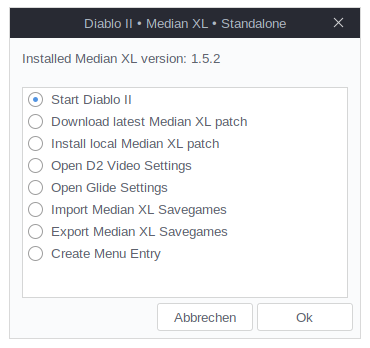
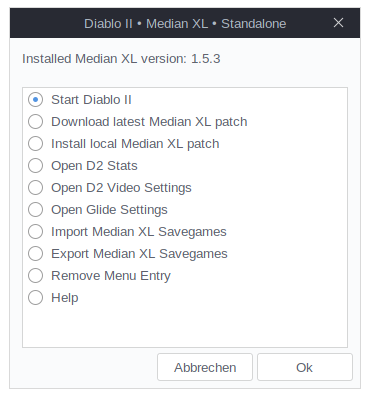
d2 stats support added, help page added

diff --git a/res/d2launcher-help.html b/res/d2launcher-help.html
@@ -1,0 +1,220 @@
+<!DOCTYPE html>
+<html>
+
+<head>
+    <meta charset="utf-8">
+    <title>d2launcher help</title>
+    <style>
+        html {
+            font-size: 12px;
+        }
+        
+        h1 {
+            font-size: 20px;
+        }
+        
+        h2 {
+            font-size: 16px;
+        }
+        
+        h3 {
+            font-size: 12px;
+        }
+        
+        p {
+            font-size: 12px;
+        }
+        
+        li {
+            font-size: 12px;
+        }
+        
+        table {
+            width: 100%;
+        }
+        
+        table,
+        th,
+        td {
+            border: 1px solid Gray;
+            border-collapse: collapse;
+        }
+        
+        th {
+            text-align: left;
+        }
+        
+        tr,
+        td {
+            padding: 5px;
+        }
+        
+        hr {
+            border: 1px dashed LightGray
+        }
+    </style>
+</head>
+
+<body>
+    <h1>d2launcher Help</h1>
+    <p><b>GitHub:</b> <a href="https://github.com/murkl/d2launcher">Link</a></p>
+    <br>
+    <h2>Diablo II Arguments</h2>
+    <hr>
+    <p>These are available arguments you can use in d2launcher.conf</p>
+    <table>
+        <tr>
+            <td>Enable Glide wrapper</td>
+            <td>-3dfx</td>
+        </tr>
+        <tr>
+            <td>Skip to Median XL login</td>
+            <td>-skiptobnet</td>
+        </tr>
+        <tr>
+            <td>No sound</td>
+            <td>-ns</td>
+        </tr>
+        <tr>
+            <td>No background sound</td>
+            <td>-sndbkg</td>
+        </tr>
+    </table>
+    <br>
+    <br>
+    <h2>Glide Wrapper</h2>
+    <hr>
+    <p>My recommended settings for glide wrapper. It depends on your own hardware.</p>
+    <h3>Settings</h3>
+    <table>
+        <tr>
+            <td>☐</td>
+            <td>window mode</td>
+        </tr>
+        <tr>
+            <td>☐</td>
+            <td>capture mode</td>
+        </tr>
+        <tr>
+            <td>☐</td>
+            <td>keep aspect ratio</td>
+        </tr>
+        <tr>
+            <td>☑</td>
+            <td>vertical synchronization (VSYNC)</td>
+        </tr>
+        <tr>
+            <td>no</td>
+            <td>fps-limit</td>
+        </tr>
+        <tr>
+            <td>no</td>
+            <td>static size</td>
+        </tr>
+        <tr>
+            <td>☐</td>
+            <td>window extras</td>
+        </tr>
+        <tr>
+            <td>auto</td>
+            <td>refreshrate</td>
+        </tr>
+        <tr>
+            <td>☑</td>
+            <td>desktopresolution</td>
+        </tr>
+    </table>
+    <br>
+    <h3>Renderer</h3>
+    <table>
+        <tr>
+            <td>108 MB</td>
+            <td>texture-memory</td>
+        </tr>
+        <tr>
+            <td>2048x2048</td>
+            <td>buffer-texture-size</td>
+        </tr>
+        <tr>
+            <td>☑</td>
+            <td>32 bit rendering</td>
+        </tr>
+        <tr>
+            <td>☑</td>
+            <td>texture for videos</td>
+        </tr>
+        <tr>
+            <td>☑</td>
+            <td>bilinear filtering</td>
+        </tr>
+        <tr>
+            <td>☑</td>
+            <td>supersampling</td>
+        </tr>
+        <tr>
+            <td>☑</td>
+            <td>shader-gamma</td>
+        </tr>
+        <tr>
+            <td>☐</td>
+            <td>no gamma</td>
+        </tr>
+        <tr>
+            <td>☑</td>
+            <td>keep desktop composition</td>
+        </tr>
+    </table>
+    <br>
+    <h3>Extensions</h3>
+    <table>
+        <tr>
+            <td>☑</td>
+            <td>GL_EXT_vertex_array</td>
+        </tr>
+        <tr>
+            <td>☑</td>
+            <td>GL_ATI_fragment_shader</td>
+        </tr>
+        <tr>
+            <td>☑</td>
+            <td>GL_ARB_fragment_program</td>
+        </tr>
+        <tr>
+            <td>☑</td>
+            <td>GL_EXT_paletted_texture</td>
+        </tr>
+        <tr>
+            <td>☑</td>
+            <td>GL_EXT_shared_texture_palette</td>
+        </tr>
+        <tr>
+            <td>☑</td>
+            <td>GL_EXT_packed_pixels</td>
+        </tr>
+        <tr>
+            <td>☑</td>
+            <td>GL_EXT_texture_env_combine</td>
+        </tr>
+        <tr>
+            <td>☑</td>
+            <td>WGL_EXT_swap_control</td>
+        </tr>
+        <tr>
+            <td>☑</td>
+            <td>WGL_ARB_render_texture</td>
+        </tr>
+    </table>
+    <br>
+    <br>
+    <h2>External Libraries</h2>
+    <hr>
+    <p>Thanks to you guys!</p>
+    <p>
+    <a href="https://median-xl.com">https://median-xl.com</a><br>
+    <a href="https://github.com/ferion11/Proton_Appimage">https://github.com/ferion11/Proton_Appimage</a><br>
+    <a href="https://github.com/Kyromyr/D2Stats">https://github.com/Kyromyr/D2Stats</a><br>
+    <a href="https://github.com/SyndromeDayna/diablo-2-median-xl-sigma-loader">https://github.com/SyndromeDayna/diablo-2-median-xl-sigma-loader</a><br>
+    </p>
+</body>
+
+</html>

diff --git a/README.md b/README.md
@@ -11,7 +11,9 @@ Enjoy the simplicity :)
 ## Features
 * Standalone (no wine installation required)
 * Downloads latest Median XL patch
+* Median XL version management
 * Import/Export of savegames
+* D2 Stats included
 * Sven's Glide wrapper included
 * Diablo II 1.13c files to work with Median XL included
 
@@ -20,11 +22,11 @@ You will need a Diablo II installation. The script will ask for your for the loc
 
 ### Arch
 ```
-sudo pacman -S p7zip jq
+sudo pacman -S p7zip unrar jq wmctrl
 ```
 ### Debian/Ubuntu/elementaryOS
 ```
-sudo apt install p7zip jq
+sudo apt install p7zip unrar jq wmctrl
 ```
 
 ## Run the script
